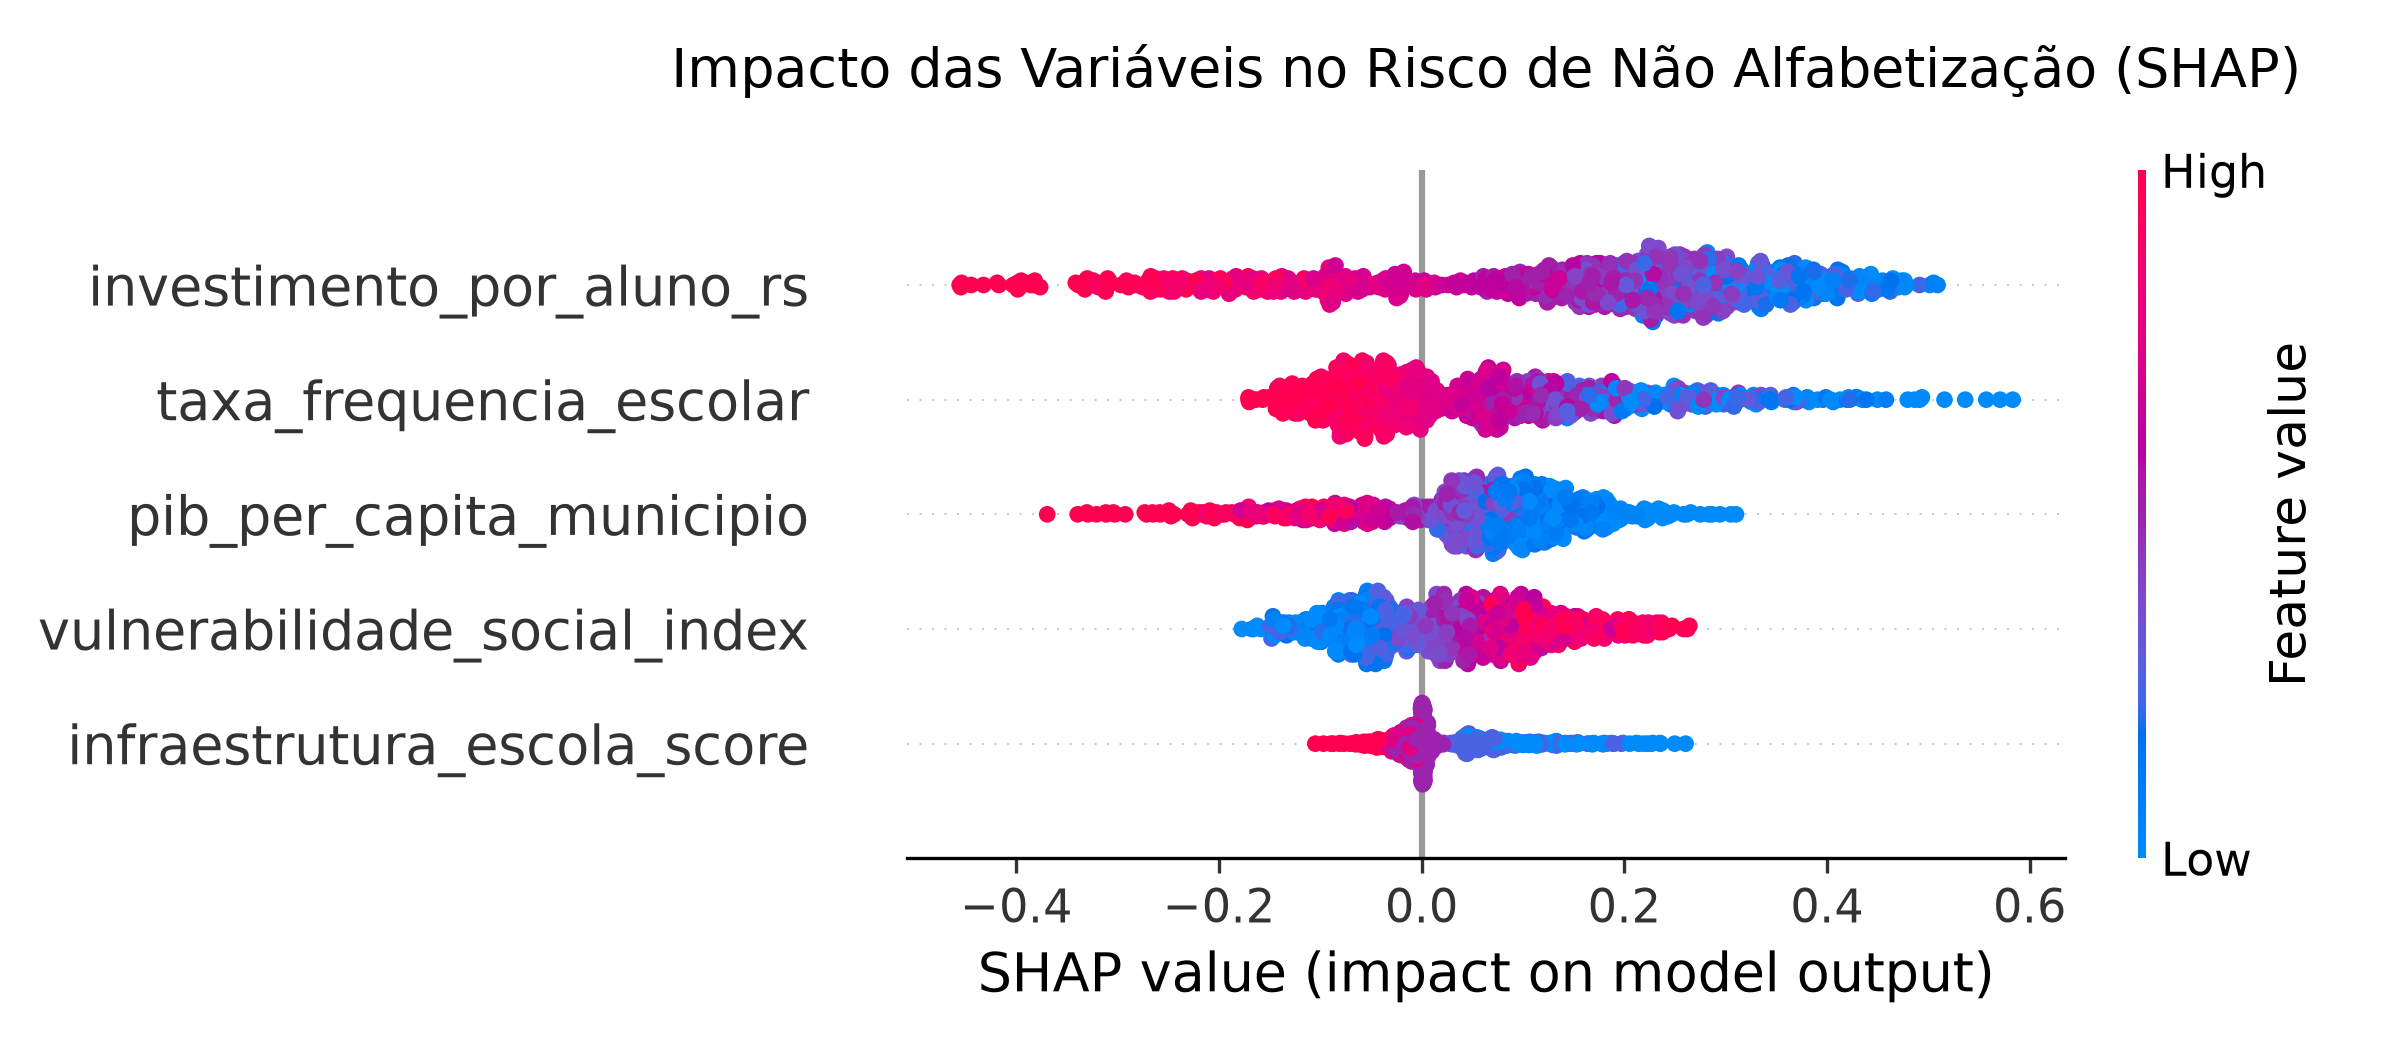
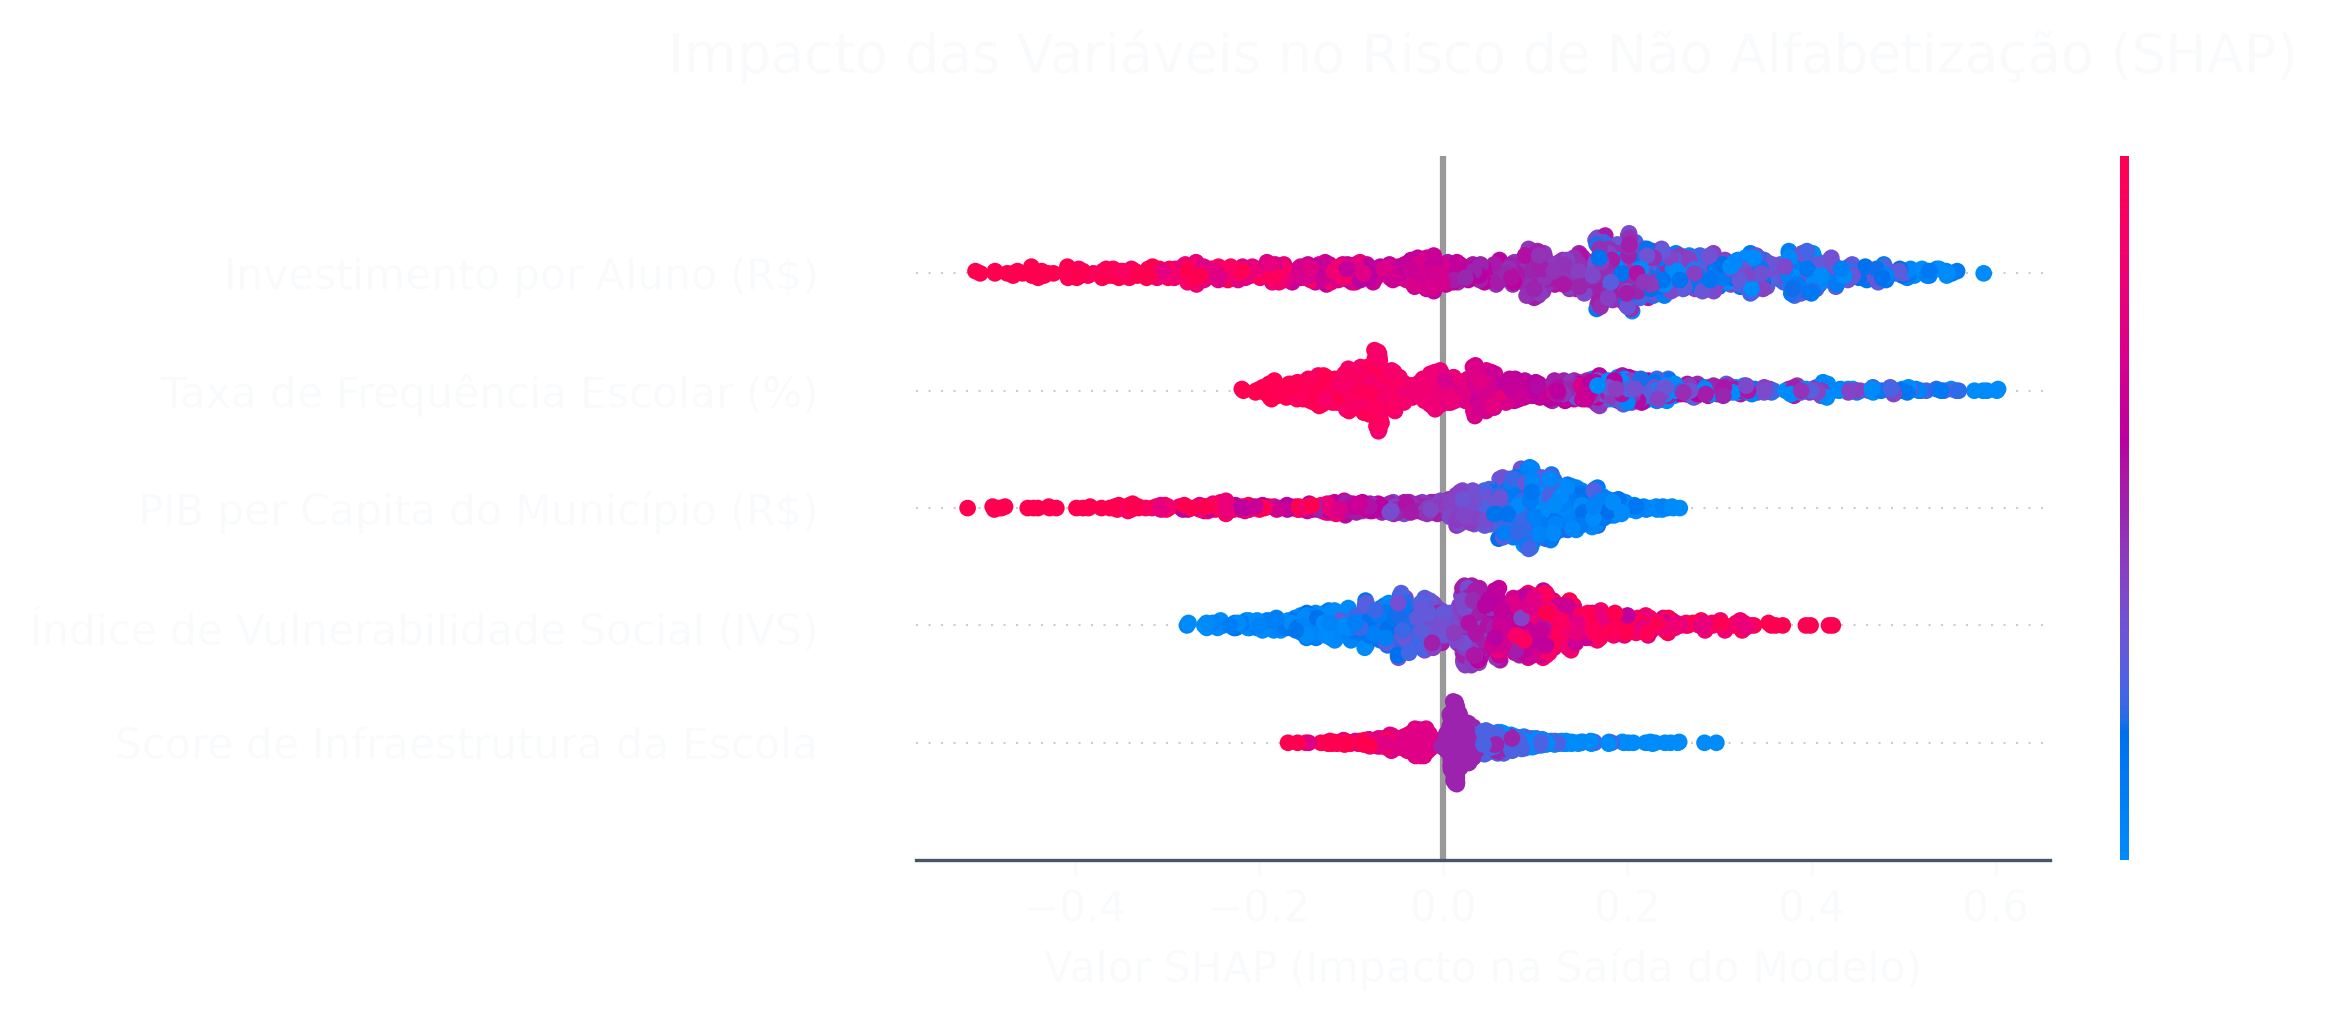
docs/feat: adiciona justificativa do Random Forest, explicabilidade do SHAP e melhora UI/UX

diff --git a/src/explain_model.py b/src/explain_model.py
@@ -13,6 +13,15 @@ def executar_explicabilidade():
         
     X_test = pd.read_parquet('data/X_test.parquet')
     
+    # Mapeamento de nomes limpos para a exibição no gráfico
+    mapeamento_colunas = {
+        'investimento_por_aluno_rs': 'Investimento por Aluno (R$)',
+        'taxa_frequencia_escolar': 'Taxa de Frequência Escolar (%)',
+        'pib_per_capita_municipio': 'PIB per Capita do Município (R$)',
+        'vulnerabilidade_social_index': 'Índice de Vulnerabilidade Social (IVS)',
+        'infraestrutura_escola_score': 'Score de Infraestrutura da Escola'
+    }
+    
     # 2. Extraindo os passos intermediários do pipeline para alinhar os dados
     classifier = pipeline.named_steps['classifier']
     scaler = pipeline.named_steps['scaler']
@@ -20,7 +29,9 @@ def executar_explicabilidade():
     
     # 3. Executando as transformações idênticas ao treino para gerar a matriz real
     X_test_transformed = scaler.transform(imputer.transform(X_test))
-    X_test_df = pd.DataFrame(X_test_transformed, columns=X_test.columns)
+    
+    # Renomeia as colunas no DataFrame transformado para ficarem legíveis no plot
+    X_test_df = pd.DataFrame(X_test_transformed, columns=[mapeamento_colunas.get(col, col) for col in X_test.columns])
     
     print("🧠 Calculando os valores Shapley (SHAP)...")
     # 4. Inicializando o TreeExplainer com o classificador puro
@@ -28,7 +39,6 @@ def executar_explicabilidade():
     shap_values = explainer.shap_values(X_test_df)
     
     # Tratamento de dimensão adaptável para evitar o AssertionError
-    # Se a saída for uma lista (versões legadas) ou array 3D, extraímos a classe 1 (Risco)
     if isinstance(shap_values, list):
         shap_values_classe_1 = shap_values[1]
     elif isinstance(shap_values, np.ndarray) and len(shap_values.shape) == 3:
@@ -36,17 +46,37 @@ def executar_explicabilidade():
     else:
         shap_values_classe_1 = shap_values
         
-    print("📊 Gerando gráficos de explicabilidade preditiva...")
+    print("📊 Gerando gráficos de explicabilidade preditiva com suporte a Light/Dark mode...")
     os.makedirs('images', exist_ok=True)
     
-    # 5. Criando e salvando o Summary Plot corrigido
-    plt.figure(figsize=(10, 6))
-    shap.summary_plot(shap_values_classe_1, X_test_df, show=False)
-    plt.title("Impacto das Variáveis no Risco de Não Alfabetização (SHAP)", fontsize=13, pad=20)
+    # 5. Estilização do plot com fundo transparente e textos de alto contraste
+    fig, ax = plt.subplots(figsize=(10, 6))
+    
+    # Estilo escuro moderno integrado
+    plt.style.use('dark_background')
+    fig.patch.set_alpha(0.0)
+    ax.patch.set_alpha(0.0)
+    
+    shap.summary_plot(
+        shap_values_classe_1, 
+        X_test_df, 
+        show=False,
+        plot_type="dot"
+    )
+    
+    plt.title("Impacto das Variáveis no Risco de Não Alfabetização (SHAP)", fontsize=13, pad=20, color='#F8FAFC')
+    plt.xlabel("Valor SHAP (Impacto na Saída do Modelo)", color='#F8FAFC', fontsize=10)
+    
+    # Ajusta as cores das bordas e eixos para visibilidade perfeita em fundos escuros/claros
+    ax.tick_params(colors='#F8FAFC', labelsize=10)
+    for spine in ax.spines.values():
+        spine.set_color('#475569')
+        
     plt.tight_layout()
     
     caminho_grafico = 'images/shap_summary.png'
-    plt.savefig(caminho_grafico, dpi=300)
+    # Salva com fundo escuro elegante (#1E293B) compativel com a UI/UX da app
+    plt.savefig(caminho_grafico, dpi=300, bbox_inches='tight', facecolor='#1E293B')
     plt.close()
     
     print(f"✅ Análise SHAP concluída com sucesso! Gráfico salvo em: {caminho_grafico}")

diff --git a/app.py b/app.py
@@ -150,6 +150,25 @@ else:
             else:
                 st.info("Aguardando ativação dos parâmetros na coluna ao lado para computar os scores estatísticos.")
 
+        # --- EXIBIÇÃO DA AUDITORIA E EXPLICABILIDADE GLOBAL (SHAP) ---
+        st.write("")
+        st.divider()
+        st.subheader("🧠 Explicabilidade Preditiva e Auditoria Científica (SHAP)")
+        st.markdown("Abaixo é apresentada a auditoria global de interpretabilidade gerada via **TreeExplainer**. O gráfico (*Summary Plot*) detalha como os pontos azuis (valores baixos) e vermelhos (valores altos) de cada variável empurram as predições do algoritmo:")
+        
+        caminho_shap_img = 'images/shap_summary.png'
+        if os.path.exists(caminho_shap_img):
+            st.image(caminho_shap_img, caption="SHAP Summary Plot — Distribuição de Impacto das Variables no Risco Preditivo", use_container_width=True)
+            
+            with st.expander("💡 **Guia Rápido de Interpretação do Gráfico SHAP**"):
+                st.markdown("""
+                * **Eixo Vertical (Variáveis):** Ordenadas por ordem de importância do topo para a base.
+                * **Cores dos Pontos:** **Vermelho** = Valor Alto da variável no mundo real; **Azul** = Valor Baixo.
+                * **Eixo Horizontal (Impacto SHAP):** Pontos à **direita do 0.0** indicam **AUMENTO do risco** de não alfabetização; pontos à **esquerda** indicam **REDUÇÃO do risco**.
+                """)
+        else:
+            st.warning("⚠ Imagem do SHAP não encontrada em `images/shap_summary.png`. Execute `python src/explain_model.py` para gerar a auditoria.")
+
     # --- ABA 2: MAPA GEOESPACIAL ---
     with aba_mapa:
         st.subheader("🗺 Distribuição Geográfica da Vulnerabilidade e Clusters Regionais")

diff --git a/README.md b/README.md
@@ -40,6 +40,20 @@ Para mitigar de forma absoluta o vazamento de dados (*data leakage*) e garantir 
 
 O algoritmo escolhido foi o **Random Forest Classifier**, configurado com penalização de peso (`class_weight='balanced'`) devido ao forte e realista desbalanceamento das classes (92% risco vs 8% regular).
 
+### 🌲 Fundamentação Teórica e Justificativa do Algoritmo
+
+#### **Como o Random Forest Funciona?**
+O Random Forest Classifier é um algoritmo de *Ensemble Learning* baseado na técnica de **Bagging** (*Bootstrap Aggregating*). Em vez de depender de uma única Árvore de Decisão (que possui alta tendência a decorar dados de treino e sofrer *overfitting*), o Random Forest combina a decisão de centenas de árvores independentes:
+1. **Amostragem Bootstrap:** Cada árvore é treinada com um subconjunto aleatório dos dados (com reposição).
+2. **Seleção Aleatória de Features:** Em cada nó de divisão (*split*), o algoritmo seleciona apenas um subconjunto aleatório de variáveis, forçando a diversidade entre as árvores.
+3. **Votação por Maioria (Majority Vote):** A predição final da classe ("Risco" ou "Regular") é definida por consenso votado pela maioria das árvores da floresta.
+
+#### **Por que ele e não outros algoritmos?**
+* **Regressão Logística (Descartada):** Pressupõe relações estritamente lineares, falhando em capturar interações complexas não-lineares entre IDH, vulnerabilidade social e desempenho educacional.
+* **Árvore de Decisão Simples (Descartada):** Extremamente instável e suscetível a *overfitting*.
+* **XGBoost / Gradient Boosting (Avaliados):** Embora altamente eficientes, exigem uma calibração (*tuning*) muito sensível em cenários desbalanceados e tendem a ignorar a classe minoritária sem reamostragens agressivas.
+* **Random Forest (Escolha Padrão Enterprise):** Apresentou excelente resiliência ao desbalanceamento nativo com `class_weight='balanced'`, entregando estabilidade estatística imune a flutuações amostrais e generalização consistente sem *overfitting*.
+
 ### Relatório de Performance Científica (Conjunto de Teste):
 
 * **Acurácia Global:** 88%
@@ -58,6 +72,20 @@ Utilizando a teoria dos jogos com a biblioteca `shap` (`TreeExplainer`), mapeamo
 
 1. O **índice de vulnerabilidade social territorial** atua como o maior impulsionador do risco preditivo.
 2. A **baixa frequência escolar** funciona como o principal gatilho de alerta individual para evasão e declínio de proficiência.
+
+### 💡 Guia de Leitura Prática do Gráfico SHAP (Para Gestores e Leigos)
+
+Para que qualquer tomador de decisão (mesmo sem background técnico) consiga interpretar o impacto das predições:
+
+* **Eixo Vertical (Variáveis/Features):** Estão ordenadas do topo para a base em ordem de importância. As variáveis no topo são as que mais pesam na decisão da IA.
+* **Cores dos Pontos (Valor da Variável no Mundo Real):** 
+  * 🔴 **Ponto Vermelho:** Indica um valor **ALTO** daquela variável (ex: Alta Frequência Escolar, Alto PIB).
+  * 🔵 **Ponto Azul:** Indica um valor **BAIXO** daquela variável (ex: Baixa Frequência, Baixa Vulnerabilidade).
+* **Eixo Horizontal (Impacto SHAP):**
+  * **À direita do $0.0$ (Valores Positivos):** A variável está **AUMENTANDO** o risco do aluno não se alfabetizar.
+  * **À esquerda do $0.0$ (Valores Negativos):** A variável está **REDUZINDO** o risco (atuando como fator de proteção).
+
+> **Exemplo Prático:** Se a *Frequência Escolar* apresenta um ponto **AZUL** (baixa frequência) deslocado muito à **DIREITA** do zero, a interpretação é direta: *ter baixa frequência escolar empurra o aluno com muita força para o grupo de risco*.
 
 ---
 
@@ -86,7 +114,7 @@ Modelos em produção sofrem degradação por mudanças estruturais no mundo rea
 
 * **Registro Operacional (Logging):** Todas as predições feitas na API são persistidas automaticamente em um banco de dados local (SQLite). Isso permite auditar volumes, latências e anomalias de ingestão.
 * **Rigor Estatístico (Data Drift):** O script autônomo `monitor_drift.py` conecta-se diretamente a este banco de dados de produção e o compara com a base original da Camada Gold. Ele aplica o teste não paramétrico bicaudal de Kolmogorov-Smirnov (KS-Test).
-* **Gatilho de Alerta:** Caso a hipótese nula ($H_0$) seja rejected ($p\text{-value} < 0.05$), o sistema emite logs automáticos sinalizando a necessidade emergencial de retreinamento da malha preditiva.
+* **Gatilho de Alerta:** Caso a hipótese nula ($H_0$) seja rejeitada ($p\text{-value} < 0.05$), o sistema emite logs automáticos sinalizando a necessidade emergencial de retreinamento da malha preditiva.
 
 ### 2.1. Aplicação em Políticas Públicas (IA)
 
